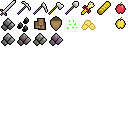
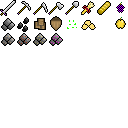
New enemies, XP

Changed region(s): [[0.625, 0.1562, 0.75, 0.25], [0.875, 0.0312, 1.0, 0.125]]

diff --git a/src/player/player.cpp b/src/player/player.cpp
@@ -43,7 +43,7 @@ Player::Player() : texture(0), invSelect(0) {
     inventory->set_slot(2, {Item::Hoe, 1});
     inventory->set_slot(3, {Item::Axe, 1});
     inventory->set_slot(4, {Item::Shovel, 1});
-    inventory->set_slot(5, {Item::Apple, 4});
+    inventory->set_slot(5, {Item::Berries, 4});
 }
 
 Player::~Player() {
@@ -76,56 +76,59 @@ auto Player::update(World* wrld, double dt) -> void {
             if (tool.itemID == Item::Axe && l == Decorations::Tree) {
                 wrld->set_tile2({ test_vec.x, test_vec.z }, Decorations::None);
                 wrld->eman->create_drop(test_vec, Item::Log, 2, 3);
+                energy += 5;
                 break;
             }
             else if (tool.itemID == Item::Pickaxe && t == Tile::Stone) {
                 wrld->set_tile({ test_vec.x, test_vec.z }, Tile::Dirt);
-
                 wrld->eman->create_drop(test_vec, Item::Stone, 2, 3);
+                energy += 5;
                 break;
             }
             else if (tool.itemID == Item::Pickaxe && t == Tile::Stone_Coal) {
                 wrld->set_tile({ test_vec.x, test_vec.z }, Tile::Dirt);
-
                 wrld->eman->create_drop(test_vec, Item::Coal, 1, 1);
+                energy += 5;
                 break;
             }
             else if (tool.itemID == Item::Shovel && t == Tile::Sand) {
                 wrld->set_tile({ test_vec.x, test_vec.z }, Tile::Dirt);
-
                 wrld->eman->create_drop(test_vec, Item::Sand, 1, 2);
+                energy += 5;
                 break;
             }
             else if (tool.itemID == Item::Hoe && t == Tile::Grass) {
                 wrld->set_tile({ test_vec.x, test_vec.z }, Tile::Farmland);
-
                 wrld->eman->create_drop(test_vec, Item::Seed, 0, 1);
+                energy += 5;
                 break;
             }
             else if (l == Decorations::Tallgrass) {
                 wrld->set_tile2({ test_vec.x, test_vec.z }, Decorations::None);
-
                 wrld->eman->create_drop(test_vec, Item::Seed, 0, 1);
+                energy += 5;
                 break;
             }
             else if (l == Decorations::Flower) {
                 wrld->set_tile2({ test_vec.x, test_vec.z }, Decorations::None);
-
                 wrld->eman->create_drop(test_vec, Item::Seed, 0, 1);
+                energy += 5;
                 break;
             }
             else if (l == Decorations::Bush) {
                 wrld->set_tile2({ test_vec.x, test_vec.z }, Decorations::None);
-
-                wrld->eman->create_drop(test_vec, Item::Apple, 0, 1);
+                wrld->eman->create_drop(test_vec, Item::Berries, 1, 1);
+                energy += 5;
                 break;
             }
             else if (tool.itemID == Item::Shovel && t == Tile::Grass) {
                 wrld->set_tile({ test_vec.x, test_vec.z }, Tile::Dirt);
+                energy += 5;
                 break;
             }
             else if (tool.itemID == Item::Hoe && t == Tile::Dirt) {
                 wrld->set_tile({ test_vec.x, test_vec.z }, Tile::Farmland);
+                energy += 5;
                 break;
             }
         }
@@ -235,4 +238,10 @@ auto Player::tick() -> void {
     if(energy > base_energy)
         energy = base_energy;
     Entity::tick();
+
+    if (xp > next_xp) {
+        level++;
+        xp -= next_xp;
+        next_xp = next_xp * 1.02f;
+    }
 }

diff --git a/src/entity/entityman.cpp b/src/entity/entityman.cpp
@@ -24,7 +24,7 @@ EntityManager::EntityManager(RefPtr<Player> p) {
 
     ecount = 0;
     icount = 0;
-    mobCap = 6;
+    mobCap = totalCap = 6;
 }
 EntityManager::~EntityManager() {
     entities.clear();
@@ -46,6 +46,7 @@ auto EntityManager::create_random_slime(glm::vec3 pos) -> void {
     entities[ecount]->pos = pos;
     entities[ecount]->base_hp = 5 + r * 5;
     entities[ecount]->hp = entities[ecount]->base_hp;
+    entities[ecount]->xpval = r * 2 + 3;
 
     ecount++;
 }
@@ -57,15 +58,17 @@ auto EntityManager::create_drop(glm::vec3 pos, uint8_t item, uint16_t count, uin
 
     srand(time(NULL) + icount);
     uint16_t r = rand() % random;
+    uint16_t cnt = count + r;
 
-    drops.emplace(
-        icount,
-        create_refptr<ItemDrop>(items[item - 1])
-    );
-    drops[icount]->itemData = Slot{item, static_cast<uint16_t>(count + r)};
-    drops[icount]->pos = pos;
-
-    icount++;
+    if (cnt > 0) {
+        drops.emplace(
+            icount,
+            create_refptr<ItemDrop>(items[item - 1])
+        );
+        drops[icount]->itemData = Slot{ item, cnt };
+        drops[icount]->pos = pos;
+        icount++;
+    }
 }
 
 
@@ -88,6 +91,10 @@ auto EntityManager::player_hit() -> void{
 
     for(auto& id : ids) {
         entities.erase(id);
+        mobCap++;
+        if (mobCap > totalCap) {
+            mobCap = totalCap;
+        }
     }
 }
 
@@ -114,6 +121,10 @@ auto EntityManager::update(World* wrld, double dt) -> void {
 
     for(auto& id : ids) {
         entities.erase(id);
+        mobCap++;
+        if (mobCap > totalCap) {
+            mobCap = totalCap;
+        }
     }
 
     ids.clear();
@@ -125,8 +136,8 @@ auto EntityManager::update(World* wrld, double dt) -> void {
         e->update_drop(wrld, dt, player->pos);
 
         if(len < 0.5f) {
+            player->inventory->add_item(e->itemData);
             ids.push_back(id);
-            //TODO: ADD TO INVENTORY
         }
     }
 

diff --git a/src/world/generator.cpp b/src/world/generator.cpp
@@ -148,13 +148,15 @@ auto WorldGen::generate(int cX, int cY, uint8_t *data, uint8_t *biome, uint8_t *
                 }else if (check > 1 && check <= 3){
                     data[idx] = Tile::Grass;
                     layer2[idx] = Decorations::Tallgrass; //TALL
-                }if (biome[idx] == Biome::Forest) {
+                } else if (biome[idx] == Biome::Forest) {
                     if (check > 5 && check <= 7){
                         data[idx] = Tile::Grass;
                         layer2[idx] = Decorations::Bush; //BUSH
-                    }else if (check == 8)
+                    }
+                    else if (check == 8) {
                         data[idx] = Tile::Grass;
                         layer2[idx] = Decorations::Bush; //BUSH
+                    }
                 } else if (check == 4) {
                         data[idx] = Tile::Grass;
                         layer2[idx] = Decorations::Bush; //BUSH

diff --git a/src/entity/entity.hpp b/src/entity/entity.hpp
@@ -6,7 +6,7 @@ class World;
 
 class Entity {
 public:
-	Entity() : pos(0), vel(0), acc(0), base_atk(5), atk(5), base_def(5), def(5), base_energy(0), energy(0), base_hp(0), hp(0), regen(0), next_xp(100), xp(0), iframes(0), immortal(false), in_water(false) {}
+	Entity() : pos(0), vel(0), acc(0), base_atk(5), atk(5), base_def(5), def(5), base_energy(0), energy(0), base_hp(0), hp(0), regen(0), next_xp(100), xp(0), iframes(0), xpval(0), level(0), immortal(false), in_water(false) {}
 	virtual ~Entity() = default;
 
 	glm::vec3 pos, vel, acc;
@@ -22,7 +22,8 @@ public:
 	uint16_t base_energy, energy;
 	uint16_t base_hp, hp;
 	uint16_t regen;
-	uint16_t next_xp, xp;
+	uint16_t next_xp, xp, xpval;
+	uint16_t level;
 
 	uint16_t iframes;
 	bool immortal;

diff --git a/src/player/inventory.cpp b/src/player/inventory.cpp
@@ -14,3 +14,30 @@ auto Inventory::get_slot(uint8_t idx) -> Slot& {
 auto Inventory::set_slot(uint8_t idx, Slot slot) -> void {
     slotData[idx] = slot;
 }
+
+auto Inventory::find_slot_existing(uint8_t itemData) -> uint8_t {
+    for (int i = 0; i < 24; i++) {
+        auto t = slotData[i].itemID;
+        if (t == itemData)
+            return i;
+    }
+
+    return 255;
+}
+
+
+auto Inventory::add_item(Slot slot) -> void {
+    auto idx = find_slot_existing(slot.itemID);
+
+    if (idx == 255) {
+        for (int i = 0; i < 24; i++) {
+            if (slotData[i].itemID == Item::None) {
+                idx = i;
+                break;
+            }
+        }
+    }
+
+    if(idx < 24)
+        slotData[idx].count += slot.count;
+}

diff --git a/src/player/inventory.hpp b/src/player/inventory.hpp
@@ -11,7 +11,7 @@ namespace Item {
     const uint8_t Shovel = 5;
     const uint8_t Wheat = 6;
     const uint8_t Bread = 7;
-    const uint8_t Apple = 8;
+    const uint8_t Berries = 8;
     const uint8_t Stone = 9;
     const uint8_t Coal = 10;
     const uint8_t Log = 11;
@@ -35,6 +35,9 @@ class Inventory final {
     auto get_slot(uint8_t idx) -> Slot&;
     auto set_slot(uint8_t idx, Slot slot) -> void;
 
+    auto add_item(Slot slot) -> void;
+
     private:
+    auto find_slot_existing(uint8_t itemData) -> uint8_t;
     std::array<Slot, 24> slotData;
 };

diff --git a/src/entity/entity.cpp b/src/entity/entity.cpp
@@ -33,6 +33,9 @@ auto Entity::take_damage(Entity* e) -> void {
         iframes = 1;
         hp = (nhp < 0) ? 0 : nhp;
     }
+
+    if (hp == 0)
+        e->xp += xpval;
 }
 
 auto Entity::update(World* wrld, double dt) -> void {

diff --git a/src/entity/entityman.hpp b/src/entity/entityman.hpp
@@ -32,4 +32,5 @@ class EntityManager final {
     u32 icount;
 
     u32 mobCap;
+    u32 totalCap;
 };
